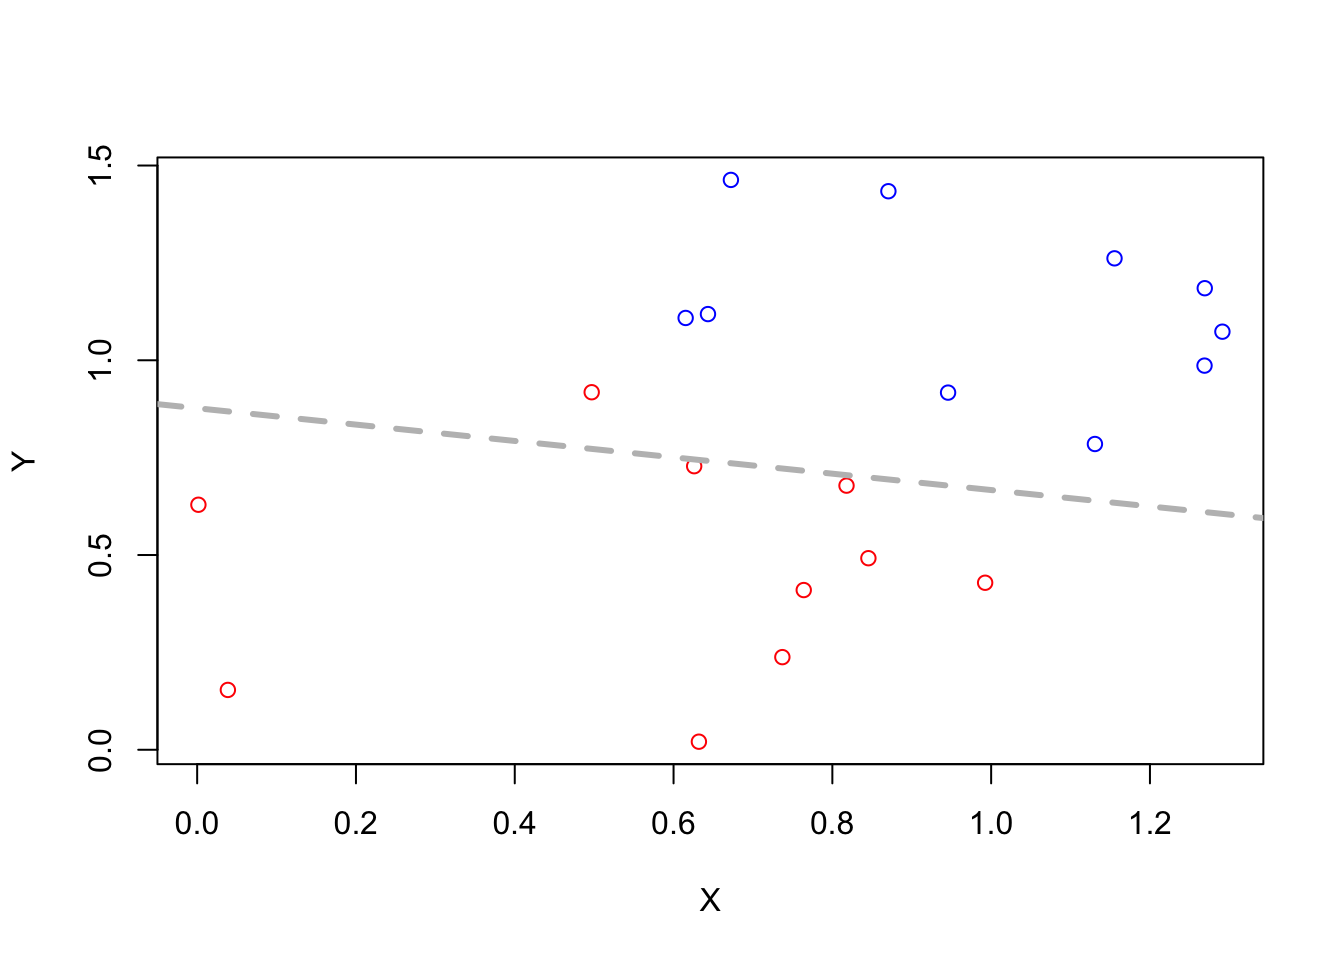
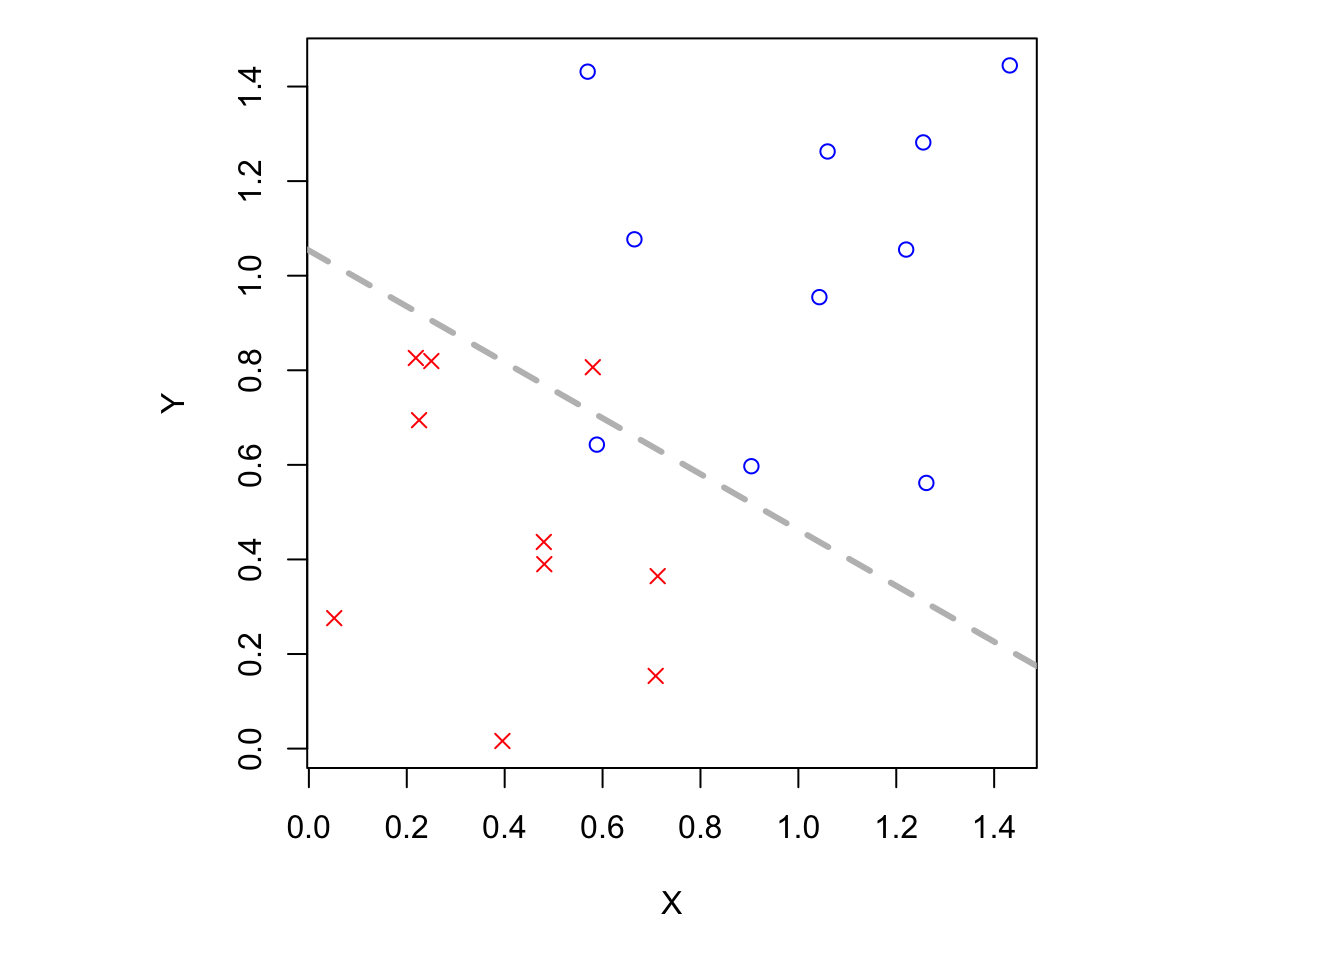
ver 34

diff --git a/_site/posts/notes/machine-learning/2023-06-30-yes-no/index.html b/_site/posts/notes/machine-learning/2023-06-30-yes-no/index.html
@@ -88,13 +88,13 @@ cookieconsent.run({
 
 <meta property="og:title" content="Yueswater Blog - 機器學習：感知器演算法(Perceptron Learning Algorithm, PLA)">
 <meta property="og:description" content="">
-<meta property="og:image" content="https://yueswater.blog/posts/notes/machine-learning/2023-06-30-yes-no/index_files/figure-html/unnamed-chunk-2-1.png">
+<meta property="og:image" content="https://yueswater.blog/posts/notes/machine-learning/2023-06-30-yes-no/index_files/figure-html/unnamed-chunk-1-1.png">
 <meta property="og:site-name" content="Yueswater Blog">
 <meta property="og:image:height" content="960">
 <meta property="og:image:width" content="1344">
 <meta name="twitter:title" content="Yueswater Blog - 機器學習：感知器演算法(Perceptron Learning Algorithm, PLA)">
 <meta name="twitter:description" content="">
-<meta name="twitter:image" content="https://yueswater.blog/posts/notes/machine-learning/2023-06-30-yes-no/index_files/figure-html/unnamed-chunk-2-1.png">
+<meta name="twitter:image" content="https://yueswater.blog/posts/notes/machine-learning/2023-06-30-yes-no/index_files/figure-html/unnamed-chunk-1-1.png">
 <meta name="twitter:image-height" content="960">
 <meta name="twitter:image-width" content="1344">
 <meta name="twitter:card" content="summary_large_image">
@@ -212,18 +212,104 @@ h(\mathbf{x}) = \operatorname{sign}\Biggl(\Biggl(\sum^{d}_{i=1}w_{i}x_{i}\Biggr)
 h(\mathbf{x}) = \operatorname{sign}\Biggl(\Biggl(\sum^{d}_{i=1}w_{i}x_{i}\Biggr)+ \underbrace{(-\text{threshold})}_{w_{0}} \cdot \underbrace{(+1)}_{w_{0}}\Biggl)
 \]</span> 因此我們可以將維度 <span class="math inline">\(0\)</span> 收納進前方的加總符號，使其從 <span class="math inline">\(0\)</span> 開始累加，最後改寫為矩陣的形式： <span class="math display">\[
 \operatorname{sign}\Biggl(\sum^{d}_{i=0}w_{i}x_{i}\Biggr) = \operatorname{sign}(\mathbf{w}^{\top}\mathbf{x})
-\]</span></p>
+\]</span> <strong>例</strong> 假設我們今天只看考慮兩個維度，因此 <span class="math inline">\(h\)</span> 的形式如下： <span class="math display">\[
+h(\mathbf{x}) = \operatorname{sign}(w_{0} + w_{1}x_{1} + w_{2}x_{2})
+\]</span> 我們可以在二維的歐式空間繪製以下的圖，其中</p>
+<ul>
+<li><span class="math inline">\(\mathbf{x}\)</span>：平面上或 <span class="math inline">\(\mathbb{R}^{d}\)</span> 上的點</li>
+<li><span class="math inline">\(y\)</span>：<span class="math inline">\(\color{blue}{\circ}\)</span> (<span class="math inline">\(+1\)</span>)，<span class="math inline">\(\color{red}{\times}\)</span> (<span class="math inline">\(-1\)</span>)</li>
+<li><span class="math inline">\(h\)</span>：平面上或 <span class="math inline">\(\mathbb{R}^{d}\)</span> 上的直線，若屬正數則在直線的右邊，屬負數則在左邊。</li>
+</ul>
 <div class="cell" data-layout-align="center">
 <div class="cell-output-display">
 <div class="quarto-figure quarto-figure-center">
 <figure class="figure">
-<p><img src="index_files/figure-html/unnamed-chunk-2-1.png" class="img-fluid figure-img" width="672"></p>
+<p><img src="index_files/figure-html/unnamed-chunk-1-1.png" class="img-fluid figure-img" width="672"></p>
 </figure>
 </div>
 </div>
 </div>
+<p>可看出感知器演算法其實就是一種「線性分類」(<em>linear/binary classifiers</em>)，儘管到了更高維，在幾何上仍有線性的意義。</p>
+</section>
+<section id="知錯能改的演算法" class="level2">
+<h2 class="anchored" data-anchor-id="知錯能改的演算法">知錯能改的演算法</h2>
+<blockquote class="blockquote">
+<p>A fault confessed is hald redressed.</p>
+</blockquote>
+<p>我們之前提到過，因為實際上的公式 <span class="math inline">\(f\)</span> 是未知的，我們試圖找出一個公式，能夠完美的預測或至少在預測上表現良好，也就是 <span class="math display">\[
+g \approx f
+\]</span> 但由於不知道 <span class="math inline">\(f\)</span>，我們最卑微的要求就是根據「從 <span class="math inline">\(f\)</span> 抽取出來的資料」，使得 <span class="math inline">\(g\)</span> 與 <span class="math inline">\(f\)</span> 一樣或至少很接近，即是要求 <span class="math display">\[
+g(\mathbf{x}_{n}) = f(\mathbf{x}_{n}) = y_{n}
+\]</span> 不過，我們發現到在二維平面上有無限多條直線，找尋上會十分困難，也就是所有感知器的集合是無限的 (<span class="math inline">\(\mathcal{H}\)</span> is of infinite size)。</p>
+<section id="搜尋思維逐步修正-g" class="level3">
+<h3 class="anchored" data-anchor-id="搜尋思維逐步修正-g">搜尋思維：逐步修正 <span class="math inline">\(g\)</span></h3>
+<p>一個簡單也最直覺的想法，我們先任意挑一個 <span class="math inline">\(g_{0} \in g\)</span>，如果發現它沒辦法表現的良好，那麼我們就修正，並改為 <span class="math inline">\(g_{1}\)</span>，重複上述的動作直到我們覺得不能再好為止。這跟人類的學習方式大同小異，我們也是透過不斷地練習、試誤，才能夠達到一定的水準。</p>
+<p>以下是一個規則化的操作。首先從某個 <span class="math inline">\(\mathbf{w}_{0}\)</span> 開始，並假設 <span class="math inline">\(\mathbf{w}_{0} = \mathbf{0}\)</span>，代表最初一無所知的狀態。令 <span class="math inline">\(t\)</span> 代表回合數，則對於 <span class="math inline">\(t = 0, 1, \cdots\)</span>，</p>
+<ol type="1">
+<li><p>找出 <span class="math inline">\(\mathbf{w}_{t}\)</span> 上錯誤的點，記成 <span class="math inline">\((\mathbf{x}_{n(t)}, y_{n(t)})\)</span>，其中犯錯的定義為 <span class="math display">\[
+\operatorname{sign}\bigl(\mathbf{w}^{\top}\mathbf{x}_{n(t)}\bigr) \neq y_{n(t)}
+\]</span> 即內積的結果與預期的結果異號。</p></li>
+<li><p>試圖修正它，如果想要正的，就將 <span class="math inline">\(\mathbf{w}\)</span> 轉向 <span class="math inline">\(\mathbf{x}\)</span>；如果想要負的，就將 <span class="math inline">\(\mathbf{w}\)</span> 轉離 <span class="math inline">\(\mathbf{x}\)</span>，即 <span class="math display">\[
+\mathbf{w}_{t+1} \leftarrow \mathbf{w}_{t} + y_{n(t)}\mathbf{x}_{n(t)}
+\]</span></p></li>
+</ol>
+<div class="quarto-figure quarto-figure-center">
+<figure class="figure">
+<p><img src="fig1.png" class="img-fluid figure-img" style="width:55.0%"></p>
+</figure>
+</div>
+<p>重複上述動作直到沒有錯誤，回傳最終的 <span class="math inline">\(\mathbf{w}\)</span> 並稱為 <span class="math inline">\(\mathbf{w}_{\text{PLA}}\)</span>。</p>
+<p>那麼我們要如何認定 <span class="math inline">\(\mathbf{w}_{t}\)</span> 沒有錯誤呢？一個方法是我們就掃過維度上的每個點，若未發現錯誤則前往下一個點，直到發現錯誤後便進行上述的修正步驟，我們將此演算法稱為 Cyclic PLA。</p>
+<div class="quarto-figure quarto-figure-center">
+<figure class="figure">
+<p><img src="fig2.png" class="img-fluid figure-img"></p>
+<figcaption class="figure-caption">截圖自林軒田教授的授課講義</figcaption>
+</figure>
+</div>
+</section>
+<section id="pla-的細節探討" class="level3">
+<h3 class="anchored" data-anchor-id="pla-的細節探討">PLA 的細節探討</h3>
+<p>上面我們是假設 PLA 在找尋最佳公式的過程中會自動停下來(halt)，但實際上這個過程有可能是停不下來的。不過我們先不討論停不下來的情況，我們只著重在停下來的條件。</p>
+<p>我們知道 PLA 會停下的條件是找到一個能夠把資料完美切開或至少能夠將多數資料分割的公式，但是上述條件的前提是「資料要真的能夠被切開」，稱為線性可分(linear separable)。</p>
+<div class="quarto-figure quarto-figure-center">
+<figure class="figure">
+<p><img src="fig3.png" class="img-fluid figure-img" style="width:75.0%"></p>
+</figure>
+</div>
+<p>為了簡化，我們假設資料 <span class="math inline">\(\mathcal{D}\)</span> 是線性可分，那麼 PLA 是否會停止呢？</p>
+<p>我們知道若一筆資料為線性可分，那麼必然存在一條完美的公式 <span class="math inline">\(\mathbf{w}_{f}\)</span> 使得 <span class="math inline">\(y_{n} = \operatorname{sign}(\mathbf{w}_{f}^{\top}\mathbf{x}_{n})\)</span>，因此可以得出以下條件： <span class="math display">\[
+y_{n(t)}\mathbf{w}_{f}^{\top}\mathbf{x}_{n(t)} \geq \min_{n}y_{n}\mathbf{w}_{f}^{\top}\mathbf{x}_{n} &gt; 0
+\]</span> 代表每個 <span class="math inline">\(\mathbf{x}_{n}\)</span> 與直線的距離。接下來我們要衡量 <span class="math inline">\(\mathbf{w}_{t}\)</span> 與 <span class="math inline">\(\mathbf{w}_{f}\)</span> 是否接近，方法則是透過內積的方式，若內積的值夠大代表兩者越接近。已知 <span class="math inline">\(\mathbf{w}_{t+1} = \mathbf{w}_{t} + y_{n(t)}\mathbf{x}_{n(t)}\)</span>，則 <span class="math display">\[
+\begin{aligned}
+\mathbf{w}_{f}^{\top}\mathbf{w}_{t+1} &amp;= \mathbf{w}_{f}^{\top}(\mathbf{w}_{t}+y_{n(t)}\mathbf{x}_{n(t)}) \\
+&amp;\geq \mathbf{w}_{f}^{\top}\mathbf{w}_{t} + \min_{n}y_{n}\mathbf{w}_{f}^{\top}\mathbf{x}_{n}\\
+&amp;&gt; \mathbf{w}_{f}^{\top}\mathbf{w}_{t} + 0
+\end{aligned}
+\]</span> 可知 <span class="math inline">\(\mathbf{w}_{f}^{\top}\mathbf{w}_{t+1}\)</span> 在更新過後會變得比 <span class="math inline">\(\mathbf{w}_{f}^{\top}\mathbf{w}_{t}\)</span> 來得大，意味著兩條線看似會越來越接近。但我們忽略了向量長度的問題，因此以下要考慮這個因素。</p>
+<p>我們提到 <span class="math inline">\(\mathbf{w}_{t}\)</span> 會更新的條件是 <span class="math display">\[
+\operatorname{sign}(\mathbf{w}_{t}^{\top}\mathbf{x}_{n(t)}) \neq y_{n(t)}
+\]</span> 更簡單的表示方式為之前提過的，若 <span class="math inline">\(y_{n(t)}\)</span> 與 <span class="math inline">\(\mathbf{w}_{t}^{\top}\mathbf{x}_{n(t)}\)</span> 的內積異號，即 <span class="math display">\[
+y_{n(t)}\mathbf{w}_{t}^{\top}\mathbf{x}_{n(t)} \leq 0
+\]</span> 則我們稱該點有問題，公式必須做更新。</p>
+<p><span class="math display">\[
+\begin{aligned}
+\lVert \mathbf{w}_{t+1}\lVert^{2} &amp;= \lVert\mathbf{w}_{t}+y_{n(t)}\mathbf{x}_{n(t)}\lVert^{2}\\
+&amp;= \lVert\mathbf{w}_{t}\lVert^{2} + 2y_{n(t)}\mathbf{w}_{t}^{\top}\mathbf{x}_{n(t)} + \lVert y_{n(t)}\mathbf{x}_{n(t)}\lVert^{2}\\
+&amp;\leq \lVert\mathbf{w}_{t}\lVert^{2} + 0 + \lVert y_{n(t)}\mathbf{x}_{n(t)}\lVert^{2}\\
+&amp;\leq \lVert\mathbf{w}_{t}\lVert^{2} + \max_{n}\lVert y_{n}\mathbf{x}_{n}\lVert^{2}
+\end{aligned}
+\]</span> 我們將上述兩個條件進行正規化後，得到以下式子</p>
+<p><span class="math display">\[
+\begin{equation}
+\frac{\mathbf{w}_{f}^{\top}}{\lVert\mathbf{w}_{f}\lVert}\frac{\mathbf{w}_{T}}{\lVert\mathbf{w}_{T}\lVert} \geq \sqrt{T} \cdot \text{constant}
+\end{equation}
+\]</span></p>
+<p><strong>例</strong> Define <span class="math inline">\(R^{2} = \max_{n}\lVert \mathbf{x}_{n}\lVert^{2}\)</span>, and <span class="math inline">\(\rho = \min_{n}y_{n}\frac{\mathbf{w}_{f}^{\top}}{\lVert\mathbf{w}_{f}\lVert}\mathbf{x}_{n}\)</span></p>
+<p>We want to show that <span class="math inline">\(T \leq \square\)</span>. Express the upper bound <span class="math inline">\(\square\)</span> by the two terms above.</p>
+<p><strong>Sol</strong></p>
 
 
+</section>
 </section>
 
 </main> <!-- /main -->

diff --git a/_site/notes.html b/_site/notes.html
@@ -232,9 +232,9 @@ cookieconsent.run({
     </div>
 </div>
 <div class="list quarto-listing-default">
-<div class="quarto-post image-right" data-index="0" data-categories="statistics,machine learning" data-listing-date-sort="1688054400000" data-listing-file-modified-sort="1688063311284" data-listing-date-modified-sort="NaN" data-listing-reading-time-sort="2">
+<div class="quarto-post image-right" data-index="0" data-categories="statistics,machine learning" data-listing-date-sort="1688054400000" data-listing-file-modified-sort="1688119416092" data-listing-date-modified-sort="NaN" data-listing-reading-time-sort="3">
 <div class="thumbnail">
-<p><a href="./posts/notes/machine-learning/2023-06-30-yes-no/index.html"> <p class="card-img-top"><img src="posts/notes/machine-learning/2023-06-30-yes-no/index_files/figure-html/unnamed-chunk-2-1.png"  class="thumbnail-image card-img"/></p> </a></p>
+<p><a href="./posts/notes/machine-learning/2023-06-30-yes-no/index.html"> <p class="card-img-top"><img src="posts/notes/machine-learning/2023-06-30-yes-no/index_files/figure-html/unnamed-chunk-1-1.png"  class="thumbnail-image card-img"/></p> </a></p>
 </div>
 <div class="body">
 <a href="./posts/notes/machine-learning/2023-06-30-yes-no/index.html">
@@ -268,12 +268,12 @@ machine learning
 Jun 30, 2023
 </div>
 <div class="listing-reading-time">
-2 min
+3 min
 </div>
 </a>
 </div>
 </div>
-<div class="quarto-post image-right" data-index="1" data-categories="statistics,machine learning" data-listing-date-sort="1687881600000" data-listing-file-modified-sort="1688055863417" data-listing-date-modified-sort="NaN" data-listing-reading-time-sort="1">
+<div class="quarto-post image-right" data-index="1" data-categories="statistics,machine learning" data-listing-date-sort="1687881600000" data-listing-file-modified-sort="1688101845811" data-listing-date-modified-sort="NaN" data-listing-reading-time-sort="1">
 <div class="thumbnail">
 <p><a href="./posts/notes/machine-learning/2023-06-29-intro/index.html"> <div class="listing-item-img-placeholder card-img-top" >&nbsp;</div> </a></p>
 </div>
